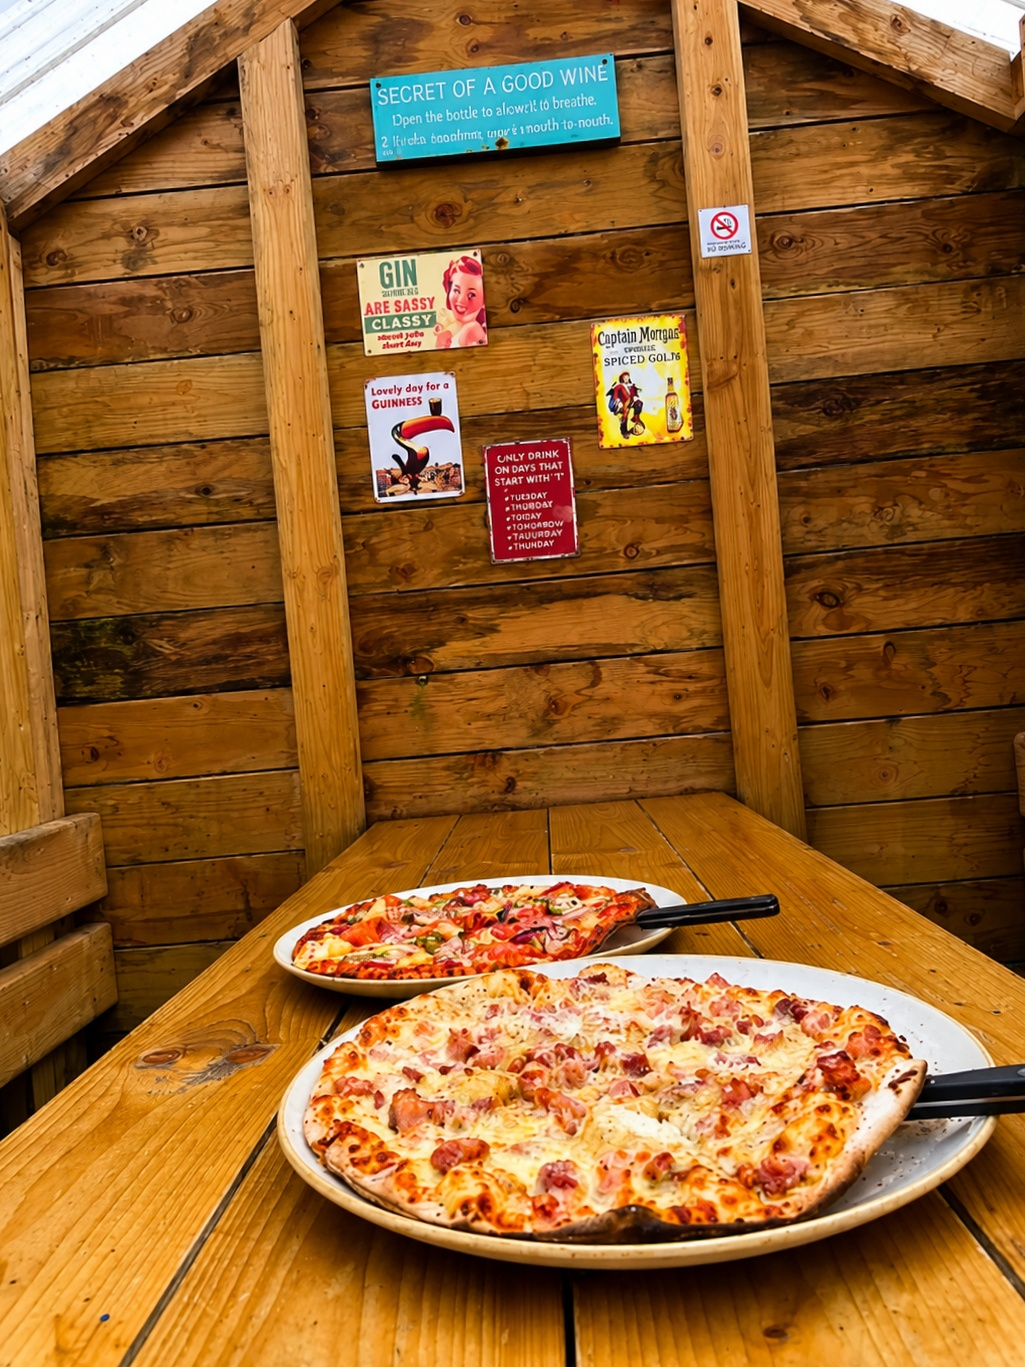
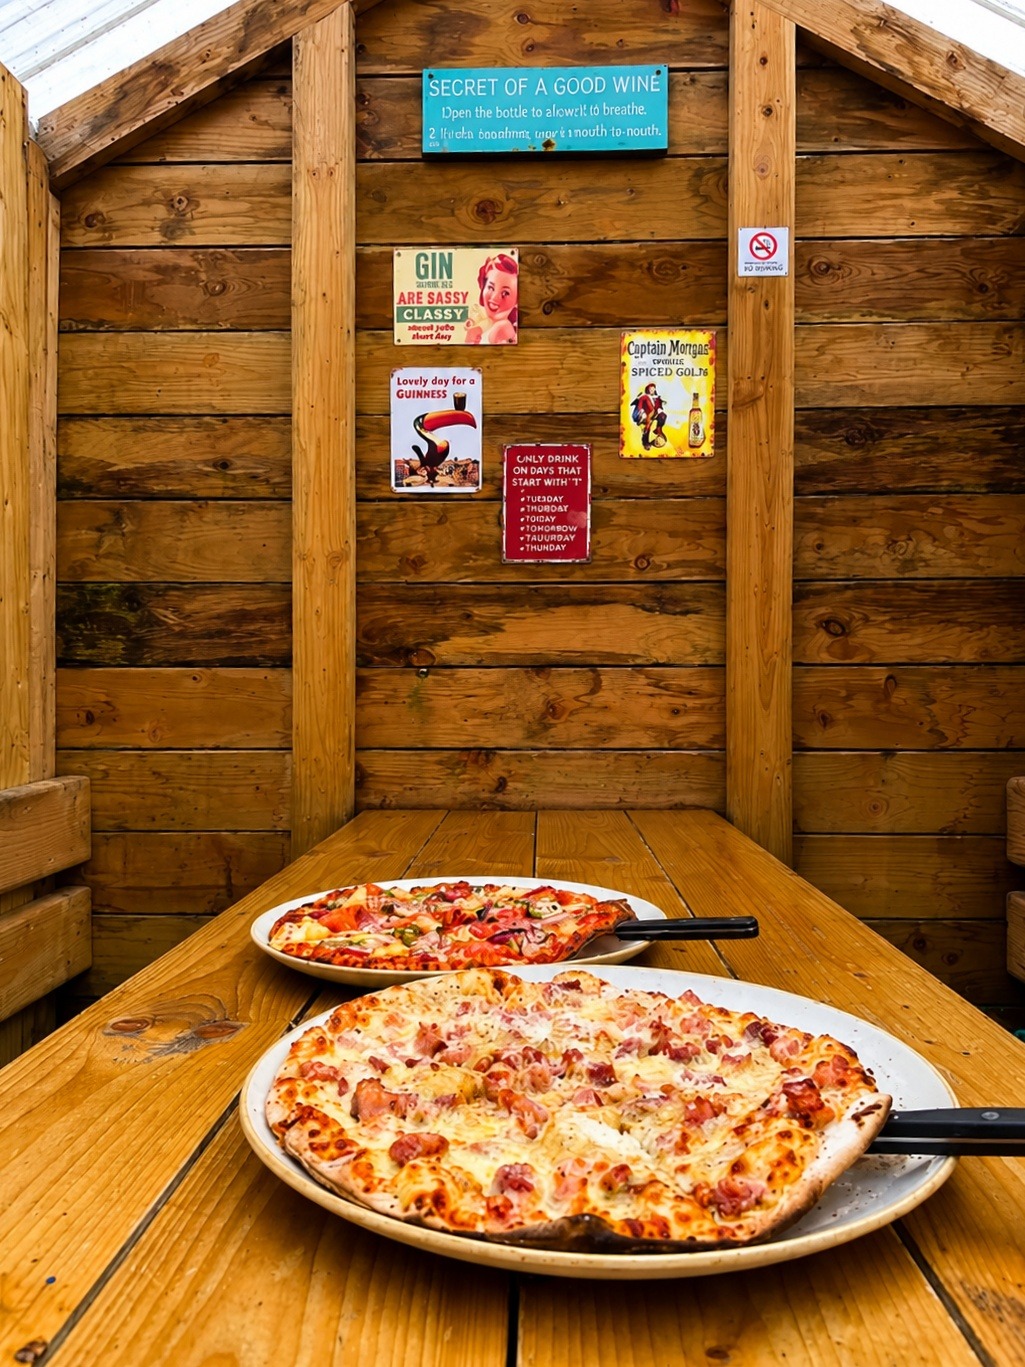
Fix mobile dead space; straighten the shed shot the right way round
DEAD SPACE. The section rhythm was flat rem values, so a 390px phone got
the same 9rem top and bottom as a 27-inch monitor: 288px of empty cream
between every section, and 338px either side of a "loose" one. Adding the
loose step made an existing problem obvious rather than creating it —
desktop read as composed, mobile read as broken.

Section padding, block gaps and the bar block's bleed are now fluid. The
vw term does the work; rem bounds stop it collapsing on small screens or
running away on very large ones.

  gap between two normal sections   phone 104px (was 288px), desktop 288px
  normal into a loose section       phone 116px (was 338px), desktop 338px

Desktop rhythm is unchanged — this only takes air out of small screens.

Also capped the full-bleed band at 34rem on desktop. At 2:1 with no
ceiling its height was half the viewport width: 1280px on a 2560px
display, taller than the viewport, so it stopped reading as a transition
and became a full-screen photo to scroll past.

STRAIGHTENING. The previous commit rotated the pizza shed shot the wrong
way and made the lean worse. I had measured it from the back wall's plank
edges, but that wall recedes in perspective, which corrupted the reading.

Re-measured from the vertical corner posts, which are genuinely plumb in
the world, and then verified by sweeping the rotation and re-measuring
residual at each step rather than trusting one number:

  original  +2.40    -2deg  +4.27    +2deg  +0.55
[…]

diff --git a/src/styles.css b/src/styles.css
@@ -801,30 +801,34 @@ body:has(.cart-fab) .order-fab {
 
 /* Sections */
 
+/* Section rhythm is fluid, not fixed.
+   These were flat rem values, so a phone got the same 9rem top AND bottom as
+   a 27-inch monitor — 288px of empty cream between every section on a 390px
+   screen, and 388px either side of a "loose" one. Desktop looked composed and
+   mobile looked broken. The vw term does the work; the rem bounds stop it
+   collapsing on small screens or running away on very large ones. */
 .section {
   max-width: var(--max);
   margin: 0 auto;
-  padding: var(--space-6) clamp(1rem, 3vw, 2rem);
+  padding: clamp(3.25rem, 10vw, 9rem) clamp(1rem, 3vw, 2rem);
 }
 
-/* Three-step rhythm.
-   Every section used to carry the same 9rem top and bottom, so the gap
-   between any two was identical — 18rem, seven times over. That reads as a
-   stack of equally weighted slabs rather than a page with a shape to it.
-   Tight keeps a section pinned to the one it continues from; loose gives a
-   real chapter break the air to register as one. */
+/* Three-step rhythm. Every section used to carry identical padding, so the gap
+   between any two was the same, seven times over — a stack of equally weighted
+   slabs rather than a page with a shape. Tight keeps a section pinned to the
+   one it continues from; loose gives a real chapter break room to register. */
 .section--tight {
-  padding-top: var(--space-5);
+  padding-top: clamp(2rem, 5vw, 4.5rem);
 }
 
 .section--loose {
-  padding-top: calc(var(--space-6) * 1.35);
-  padding-bottom: calc(var(--space-6) * 1.35);
+  padding-top: clamp(4rem, 13.5vw, 12.15rem);
+  padding-bottom: clamp(4rem, 13.5vw, 12.15rem);
 }
 
 .section__intro {
   max-width: 32rem;
-  margin-bottom: var(--space-5);
+  margin-bottom: clamp(2rem, 6vw, 4.5rem);
 }
 
 .eyebrow {
@@ -922,7 +926,7 @@ body:has(.cart-fab) .order-fab {
    instead of making every block feel equally weighted. */
 .menu__courses {
   display: grid;
-  gap: var(--space-5);
+  gap: clamp(2.5rem, 8vw, 4.5rem);
 }
 
 .menu__course {
@@ -958,7 +962,7 @@ body:has(.cart-fab) .order-fab {
    dusk frontage arrived. It's the one place the menu breaks the container,
    which is what stops the section reading as a stack of equal blocks. */
 .menu__band {
-  margin: var(--space-5) calc(50% - 50vw);
+  margin: clamp(2.5rem, 7vw, 4.5rem) calc(50% - 50vw);
 }
 
 .menu__band-img {
@@ -973,8 +977,9 @@ body:has(.cart-fab) .order-fab {
    page changes ground colour, which is what makes it read as arrival at a
    different room rather than another list. */
 .menu__bar {
-  margin: var(--space-6) calc(50% - 50vw) calc(var(--space-6) * -1);
-  padding: var(--space-6) calc(50vw - 50% + var(--space-3));
+  --bar-pad: clamp(3.25rem, 10vw, 9rem);
+  margin: var(--bar-pad) calc(50% - 50vw) calc(var(--bar-pad) * -1);
+  padding: var(--bar-pad) calc(50vw - 50% + var(--space-3));
   background: var(--forest);
   color: var(--on-accent);
 }
@@ -1061,7 +1066,7 @@ body:has(.cart-fab) .order-fab {
   display: grid;
   grid-template-columns: 1fr;
   gap: var(--space-2);
-  margin-bottom: var(--space-5);
+  margin-bottom: clamp(2rem, 6vw, 4.5rem);
 }
 
 .whats-on__photos img {
@@ -1118,7 +1123,7 @@ body:has(.cart-fab) .order-fab {
 
 .gift-card__inner {
   display: grid;
-  gap: var(--space-5);
+  gap: clamp(2rem, 6vw, 4.5rem);
   align-items: center;
 }
 
@@ -1178,7 +1183,7 @@ body:has(.cart-fab) .order-fab {
 @media (min-width: 700px) {
   .gift-card__inner {
     grid-template-columns: 1.3fr auto;
-    gap: var(--space-6);
+    gap: clamp(3rem, 8vw, 9rem);
   }
 }
 
@@ -1570,6 +1575,8 @@ body:has(.cart-fab) .order-fab {
 
   .menu__band {
     margin: var(--space-6) calc(50% - 50vw);
+    max-height: 34rem;
+    overflow: hidden;
   }
 
   .order__head {
